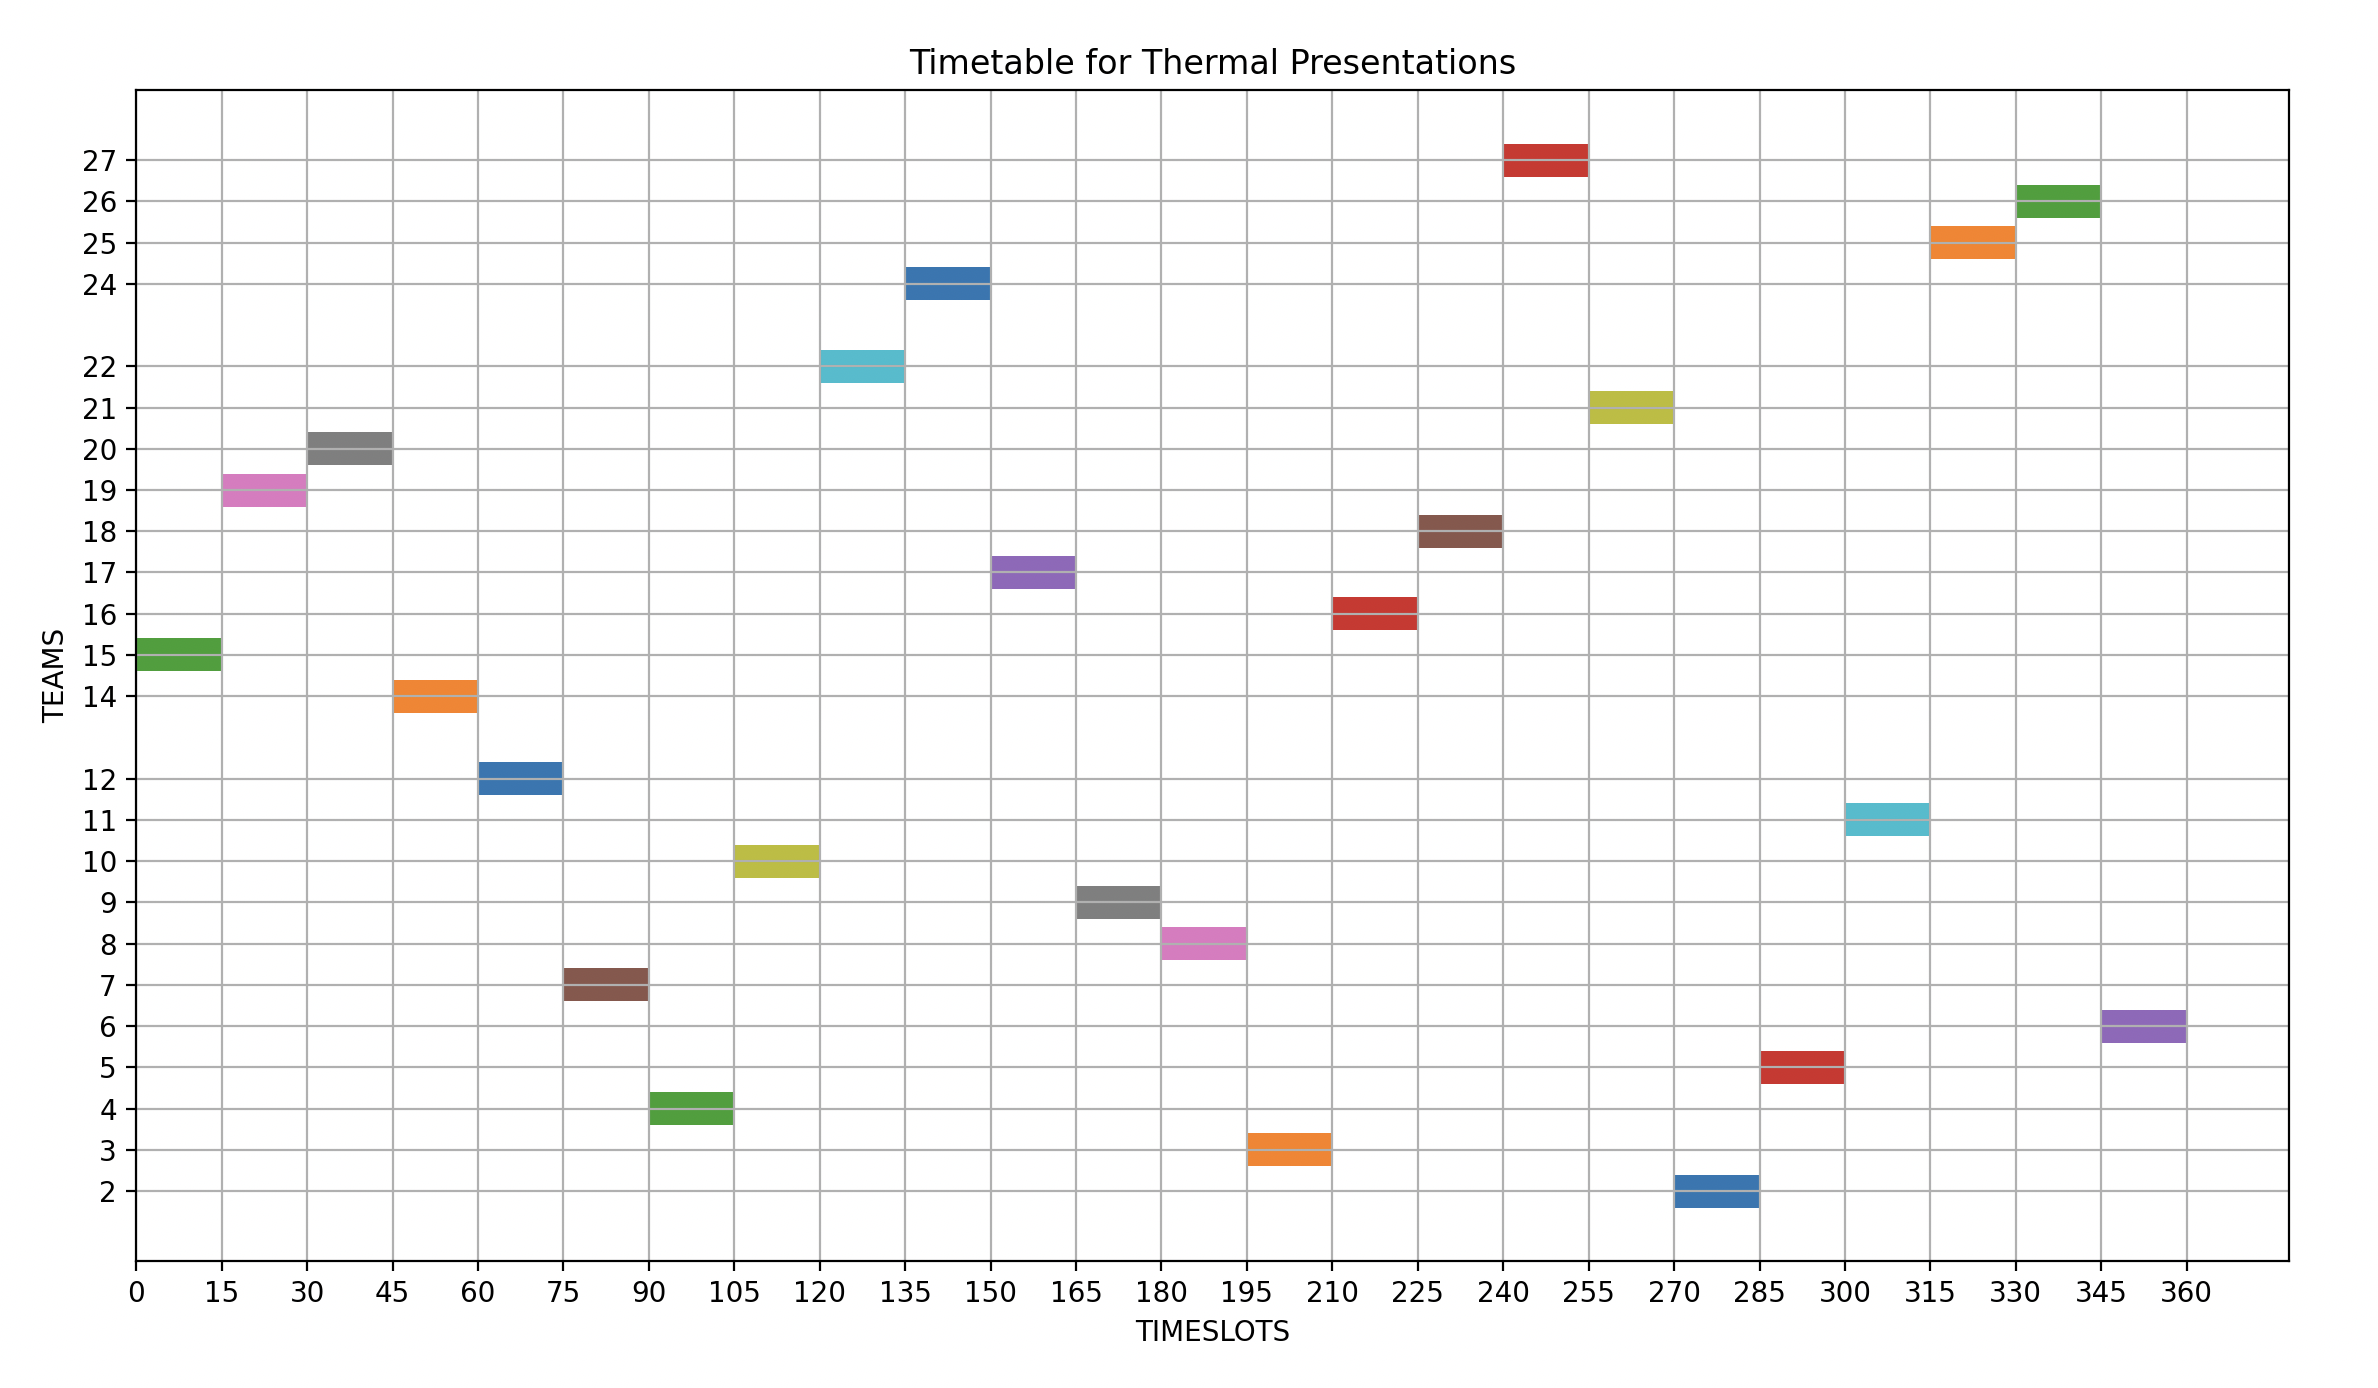
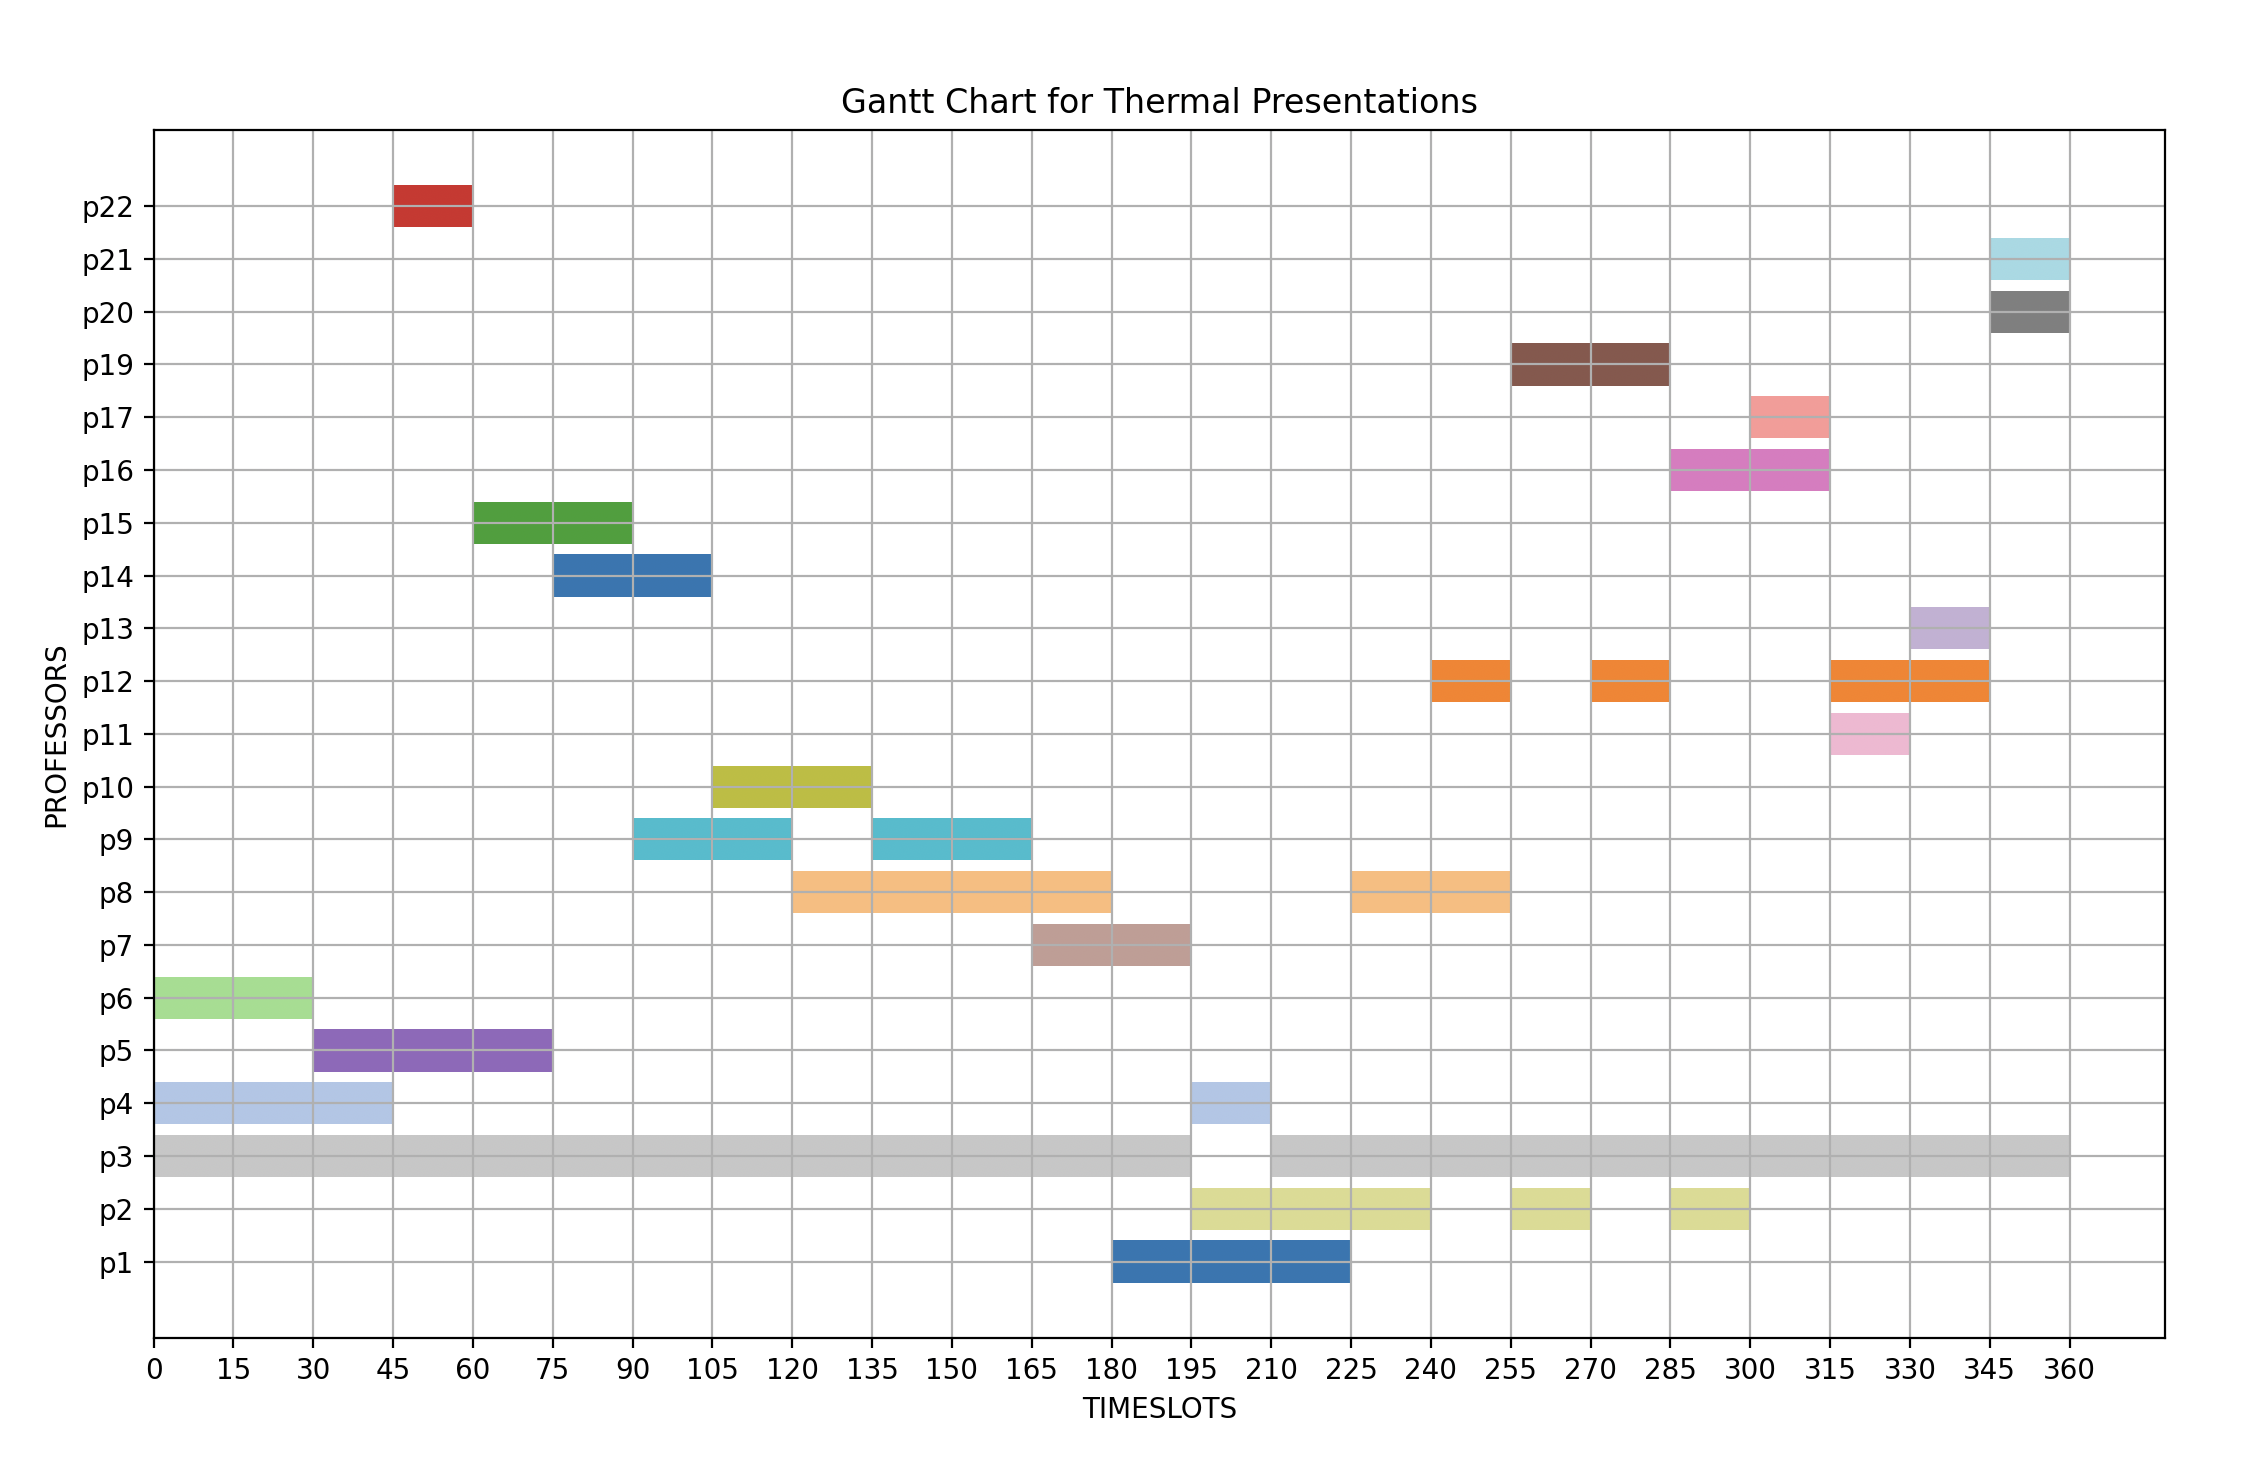
added hardcoded gantt chart

Changed region(s): [[0.0, 0.031, 0.961, 0.9604]]

diff --git a/main.py b/main.py
@@ -1,4 +1,5 @@
 import pandas as pd
+import numpy as np
 import matplotlib.pyplot as plt
 from amplpy import AMPL, add_to_path, variable
 
@@ -42,32 +43,52 @@ def rename_columns(x_df : pd.DataFrame) -> pd.DataFrame :
     return x_df
 
 
-def make_gantt_chart(output_path : str, timeLength : int) : 
+def make_gantt_chart(output_path : str, timeLength : int, teams_per_prof : dict) : 
     # Step 1: Load the CSV data
     df = pd.read_csv(output_path)
+
+    def give_colors() -> dict : 
+        professors = list(teams_per_prof.keys())
+        num_professors = len(professors)
+        cmap = plt.get_cmap("tab20")  # "tab20" provides up to 20 distinct colors
+
+        colors = [cmap(i % 20) for i in range(num_professors)]
+        np.random.seed(42)  # Fix random seed for consistency
+        np.random.shuffle(colors)
+        color_map = {prof: colors[i] for i, prof in enumerate(professors)}
+        return color_map
+    
+    color_map = give_colors()
 
     # Step 2: Create a list of tasks for the Gantt chart
     fig, ax = plt.subplots(figsize=(10, 6))
 
     # Step 3: Iterate over each row to add it to the Gantt chart
-    for i, row in df.iterrows():
-        team = row["TEAMS"]
-        start_time = row["TIMESLOTS"]
-        if row["x"] == 1 : 
-            ax.barh(team, timeLength, left=(start_time-1)*timeLength)
+    for prof, teams in teams_per_prof.items():
+        prof_color = color_map[prof]  # Assign unique color for each professor
+        for team in teams:
+            team_slot = df[(df['TEAMS'] == team) & (df['x'] == 1)] # This will be a row for our case
+            
+            # check for team_slot has only one row! # TODO:
+            if len(team_slot) != 1 :
+                raise ValueError(f"Expected exactly one row for team :  {team} in TIMESLOTS with 'x' == 1, but \
+                                 found {len(team_slot)} rows.")
+
+            for _, row in team_slot.iterrows():
+                start_time = row['TIMESLOTS']
+                ax.barh(prof, timeLength, left=(start_time - 1) * timeLength, color = prof_color)
 
     # Step 4: Customize the chart
     ax.set_xlabel("TIMESLOTS")
-    ax.set_ylabel("TEAMS")
-    ax.set_title("Timetable for Thermal Presentations")
+    ax.set_ylabel("PROFESSORS")
+    ax.set_title("Gantt Chart for Thermal Presentations")
 
     # Set yticks to intervals of 1
-    ax.set_yticks(df["TEAMS"].unique())
-    
+    ax.set_yticks(range(len(teams_per_prof)))
+    ax.set_yticklabels(list(teams_per_prof.keys()))    
+
     # Set xticks to intervals of 15 (each interval represents one timeslot of 15 minutes)
     ax.set_xticks(range(0, df["TIMESLOTS"].max() * timeLength + 1, timeLength))
-
-    # TODO : 1. add related prof name on blocks of each team
 
     plt.grid(True)
 
@@ -81,5 +102,29 @@ x_df = rename_columns(x_df)
 # Saving new csv file
 x_df.to_csv(output_path, index = False)
 
+teams_per_prof = {
+    'p1': [3, 8, 16],
+    'p2': [3, 5, 16, 18, 21],
+    'p3': [2, 4, 5, 6, 7, 8, 9, 10, 11, 12, 14, 15, 16, 17, 18, 19, 20, 21, 22, 24, 25, 26, 27],
+    'p4': [3, 15, 19, 20],
+    'p5': [12, 14, 20],
+    'p6': [15, 19],
+    'p7': [8, 9],
+    'p8': [9, 17, 18, 22, 24, 27],
+    'p9': [4, 10, 17, 24],
+    'p10': [10, 22],
+    'p11': [25],
+    'p12': [2, 25, 26, 27],
+    'p13': [26],
+    'p14': [4, 7],
+    'p15': [7, 12],
+    'p16': [5, 11],
+    'p17': [11],
+    'p19': [2, 21],
+    'p20': [6],
+    'p21': [6],
+    'p22': [14]
+}
+
 # making gantt chart assuming time interval is 15min
-make_gantt_chart(output_path, 15)
+make_gantt_chart(output_path, 15, teams_per_prof)

diff --git a/README.md b/README.md
@@ -1,6 +1,10 @@
 # timetabling
 
 
-#### TimeTable for Thermal presentations :
+#### GanttChart for Thermal presentations :
  
-![Thermal Slot](./images/initial_model_ganttChart.png)
+![Thermal Slot ganttChart](./images/initial_model_ganttChart.png)
+
+#### Timetable for Thermal presentations :
+
+![Thermal Slot timetable](./images/initial_model_timetable.png)
